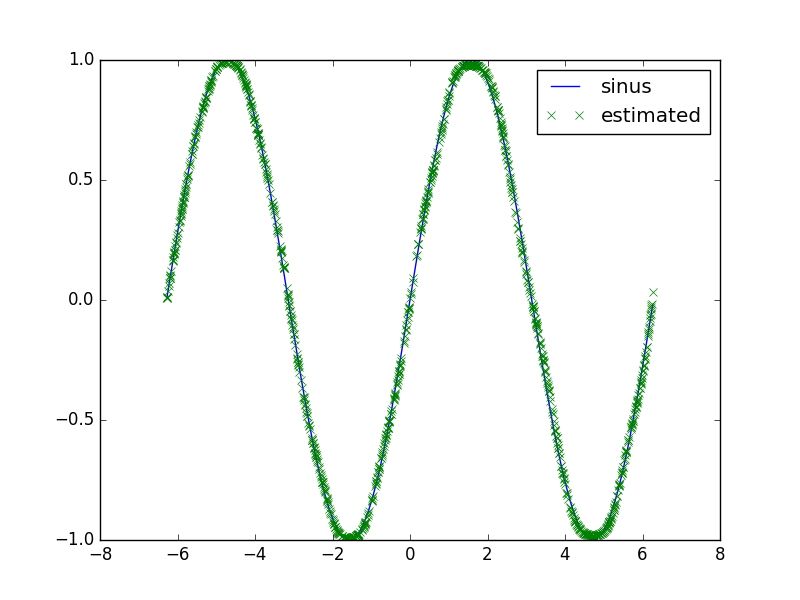
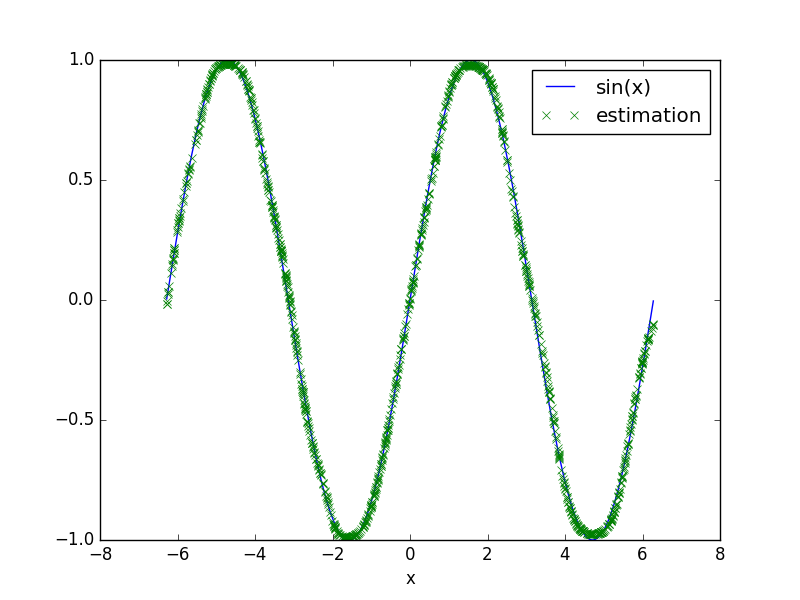
Added a 'test' method to the NeuralNet class, to calculate the testing error. Added small modification in 'train_scipy' method to return the optimisation result. Modified the neuralnet_test script using the test error.

Changed region(s): [[0.1875, 0.09, 0.5625, 0.9], [0.5625, 0.09, 0.875, 0.87], [0.7188, 0.48, 0.8438, 0.9]]

diff --git a/neuralnet_test.py b/neuralnet_test.py
@@ -6,6 +6,7 @@ import neuralnet as nn
 import matplotlib.pyplot as plt
 
 FILEPATH_THETAS = "thetas_sinus_1_20_1.pkl"
+PI_CYCLES = 2
 
 
 # Generate a random number where:  a <= rand < b
@@ -48,25 +49,15 @@ def test_sinus_data(num_training, num_testing, learn=True):
         Yln = (Yl + 1) / 2
 
         # Learn using scipy. Save learned weights with pickle
-        net.train_scipy(X=Xln, Y=Yln)
+        train_result = net.train_scipy(X=Xln, Y=Yln)
         net.filepath_picklethetas = FILEPATH_THETAS
         net.pickle_thetas()
-
-        # Evaluate the NeuralNet
-        eval_sinus_data(net, num_training, num_testing)
-
     else:
-        # Use pickled thetas to evaluate
-        net2 = nn.NeuralNet(_lambda=_lambda, shape=shape)
-        net2.weights = net.load_thetas(FILEPATH_THETAS)
-        eval_sinus_data(net2, num_training, num_testing)
+        # Use weights from file
+        net.weights = net.load_thetas(FILEPATH_THETAS)
+        train_result = None
 
-
-# Evaluate NeuralNet using the sinus test.
-def eval_sinus_data(net, num_training, num_testing):
-    PI_CYCLES = 2
-
-    # Generate data for evaluation
+    # Generate data for testing
     Xeun = [rand(-3.14 * PI_CYCLES, 3.14 * PI_CYCLES) for _ in range(num_testing)]
     Xeun = sorted(Xeun)
     Ye = np.sin(Xeun)
@@ -78,33 +69,37 @@ def eval_sinus_data(net, num_training, num_testing):
     # Xen2 = (Xeun - np.mean(Xeun)) / (max(Xeun) - min(Xeun))  # mean zero normalisation
     Yen = (Ye + 1) / 2
 
-    # Get predictions
-    preds, _ = net.forward_prop(net.weights, Xen)
+    # Test
+    Jtrain, predictions = net.test(Xen, Yen)
 
     # Un-normalize data
-    preds_un = (preds * 2) - 1
+    preds_un = (predictions * 2) - 1
 
-    # Print params
-    print('Used parameters:')
+    # Print details
+    print('Test details:')
     print('-------------------')
     print("NN shape,:", net.shape)
     print("Training samples:", num_training)
     print("Testing samples:", num_testing)
     print("Lambda:", net._lambda)
     print("init_weights interval: [%.2f, %.2f]" % (np.min(nn.wrap_thetas(net.init_weights)),
-                                               np.max(nn.wrap_thetas(net.init_weights))))
+                                                   np.max(nn.wrap_thetas(net.init_weights))))
     print("Method: scipy.optimize.minimize (BFGS)")
     print("Data normalisation: input: normalised [0,1] / output: [0,1]")
+    print("Train error:", train_result.fun if train_result else None)
+    print("Test error:", Jtrain)
     print('-----------------------------------------------------------')
 
-    plt.plot(Xeun, Ye, "-", label="sinus")
-    plt.plot(Xeun, preds_un, "x", label="estimated")
+    plt.plot(Xeun, Ye, "-", label="sin(x)")
+    plt.plot(Xeun, preds_un, "x", label="estimation")
+    plt.xlabel('x')
     plt.legend()
+    plt.savefig("sinus_test.png")
     plt.show()
 
 
 def main():
-    test_sinus_data(num_training=5000, num_testing=1000, learn=True)
+    test_sinus_data(num_training=5000, num_testing=1000, learn=False)
 
 
 if __name__ == '__main__':

diff --git a/neuralnet.py b/neuralnet.py
@@ -154,6 +154,14 @@ class NeuralNet:
         self.weights = unwrap_thetas(res.x, self.shape)
         return res
 
+    # Test the algorithm using the learned weights
+    # Xt, Yt - the input and output (correct) data
+    # Returns the test error Jtest, and the predicted values (hypothesis)
+    def test(self, Xt, Yt):
+        hypothesis, _ = self.forward_prop(self.weights, Xt)
+        Jtest = self.cost(self.weights, Yt, hypothesis)
+        return Jtest, hypothesis
+
     # Save the cost function of each iteration to text file
     def cost_to_text(self):
         with open(self.filepath_itertext, 'a') as file:
@@ -231,13 +239,23 @@ if __name__ == "__main__":
     #
     # A simple test
     #
+
+    # Create a NeuralNet object and generate some data (XOR function)
     nn = NeuralNet((2, 4, 1))
     X = np.array([[0, 0],
                   [0, 1],
                   [1, 0],
                   [1, 1]])
-    Y = np.array([[0.5, 1, 1, 0.5]]).T
-    nn.train_scipy(X, Y)
+    Y = np.array([[0, 1, 1, 0]]).T
+
+    # Train the network and print result
+    res = nn.train_scipy(X, Y)
+    if res.success:
+        print("Train error:", res.fun)
+
+    # Test using a single sample
+    Jtest, _ = nn.test(np.array([X[0]]), np.array([Y[0]]))
+    print("Test error:", Jtest)
     print("prediction for [0,0]:", nn.forward_prop(nn.weights, np.array([[0, 0]]))[0])
     print("prediction for [0,1]:", nn.forward_prop(nn.weights, np.array([[0, 1]]))[0])
     print("prediction for [1,0]:", nn.forward_prop(nn.weights, np.array([[1, 0]]))[0])
